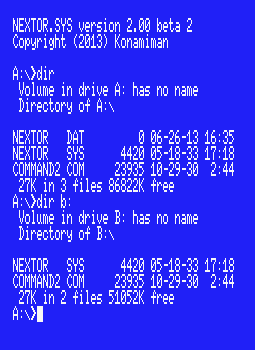
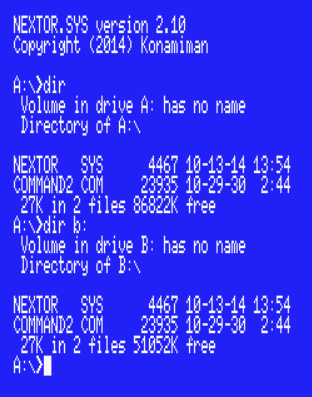
Getting started guide updated

diff --git a/docs/Nextor 2.1 Getting Started Guide.md b/docs/Nextor 2.1 Getting Started Guide.md
@@ -39,11 +39,11 @@ Note: in this guide the following Nextor tools will be used: MAPDRV.COM, LOCK.CO
 
 This section explains the steps needed to setup blueMSX in order to follow this guide. The blueMSX emulator can be downloaded at http://www.bluemsx.com. 
 
-a. Download the following files from [Konamiman's MSX page](https://www.konamiman.com/msx/msx-e.html#nextor):
+a. Download the following files from [the lastest release of Nextor in GitHub](https://github.com/Konamiman/Nextor/releases/latest):
 
-* Nextor kernel with Sunrise IDE driver.
+* Nextor kernel with Sunrise IDE driver. Please choose the file with _.SunriseIDE.emulators.ROM_ extension (the _.SunriseIDE.ROM_ version works but only recgonizes the slave IDE device in emulators).
 
-* Nextor tools disk image
+* Nextor tools disk image (_tools.dsk.zip_).
 
 b. Run blueMSX and select the _Tools - Machine Editor_ menu.
 
@@ -67,15 +67,15 @@ Now you have an emulated MSX2 with a Sunrise IDE controller that has the Nextor 
 
 If you want to follow the steps of this guide by using a real MSX computer with a Sunrise IDE controller and a floppy disk drive instead of an emulator, you will need to do the following:
 
-* Download the Nextor kernel with Sunrise IDE driver.
+* Download the Nextor kernel with Sunrise IDE driver (the file with extension _.SunriseIDE.ROM_).
 
 * Copy the NEXTOR.SYS and COMMAND2.COM files and the Nextor tools to a floppy disk. You have two options:
 
     * Download the Nextor tools disk image file and transfer its contents to a floppy disk.
 
-    * Download the Nextor tools LZH file and uncompress it to a floppy disk, together with the NEXTOR.SYS and COMMAND2.COM files.
+    * Download the Nextor tools ZIP file (_tools.zip_) and uncompress it to a floppy disk, together with the NEXTOR.SYS and COMMAND2.COM files.
 
-Note: The Nextor kernel, NEXTOR.SYS and the Nextor tools are available at [Konamiman's MSX page](https://www.konamiman.com/msx/msx-e.html#nextor).
+Note: The Nextor kernel, NEXTOR.SYS and the Nextor tools are available as assets in [the lastest release of Nextor in GitHub](https://github.com/Konamiman/Nextor/releases/latest).
 
 * Copy the MSXDOS.SYS and COMMAND.COM files to the floppy disk, these are necessary for the steps that involve booting in MSX-DOS 1 mode. These files are included in the Nextor tools disk image file, but can be found on other places on Internet too (search for "MSXDOS.SYS" on any search engine).
 
@@ -92,7 +92,9 @@ a. Boot your MSX. You will see that you boot in the COMMAND2 prompt in drive B:,
 ![](img/gsg/NextorPrompt.png)
  
 
-***What has happened?*** Nextor has assigned one drive to the Sunrise IDE driver (A:) and two drives to the floppy disk drive (B: and C:). Then it has attempted to search a suitable FAT12 or FAT16 partition in the attached hard disk in order to assign it to drive A:, but since the hard disk has no partitions yet, drive A: has been left unassigned. Drive B:, assigned to the floppy disk, is the first valid drive, and so it is used as the boot drive.
+***What has happened?*** Nextor has assigned one drive to the Sunrise IDE driver (A:) and one drive to the floppy disk drive (B:). Then it has attempted to search a suitable FAT12 or FAT16 partition in the attached hard disk in order to assign it to drive A:, but since the hard disk has no partitions yet, drive A: has been left unassigned. Drive B:, assigned to the floppy disk, is the first valid drive, and so it is used as the boot drive.
+
+**Note:** You may be wondering why the floppy disk drive gets only one drive letter assigned, and not two as usual. That's because by default Nextor inverts the behavior of the CTRL key at boot time. There's a way to customize this, see ["Boot key inverters" in the Nextor 2.1 User Manual](Nextor%202.1%20User%20Manual.md#291-boot-key-inverters).
 
 b. Type BASIC and then CALL FDISK to invoke the device partitioning tool.
 
@@ -111,6 +113,8 @@ i. Press "A" to use all the remaining disk space (9214K) for yet another partiti
 j. Press "S" to see the defined partitions. You should see four partitions, as in the following image:
 
 ![](img/gsg/FourPartitionsList.png)
+
+Note: the asterisk "*" next to the partition number means that the partition will be created with the "active" flag set in the partition table. We'll see what this implies in next section.
 
 k. Press ESC to return to the main menu, then press "W" to create the partitions on the disk. Press "y" on the data destroy warning prompt.
 
@@ -150,13 +154,21 @@ COPY NEXTOR.SYS D:
 COPY COMMAND2.COM D:
 ```
 
-d. Create an empty file named NEXTOR.DAT in drive D:. You can achieve this by executing a `COPY CON D:NEXTOR.DAT` command, then pressing CTRL+Z, then pressing Enter.
+d. Type BASIC and then CALL FDISK to invoke the device partitioning tool.
 
-e. Reset your MSX, and when you are in the COMMAND2 prompt, perform a DIR command and check that this time drive A: is assigned to the second (25MB big) partition:
+e. Press "1" to select the Sunrise IDE driver, then "1" again to select the hard disk, then "1" again to select the first logical unit, then "S" to show the partitions list.
+
+f. Press "1" and then "y" to remove the "active" flag from the first partition in the partition table.
+
+g. Press "2" and then "y" to set the "active" flag for the second partition in the partition table.
+
+h. Reset your MSX, and when you are in the COMMAND2 prompt, perform a DIR command and check that this time drive A: is assigned to the second (25MB big) partition:
 
 ![](img/gsg/DirWithNextorDat.png)
 
-***What has happened?*** When performing the automatic drive to device and partition mapping assignment at boot time, Nextor normally selects the first valid (FAT12 or FAT16) partition available. But if there are partitions with a file named "NEXTOR.DAT" in the root directory, then these partition have preference in the assignment process. The contents of the NEXTOR.DAT file are irrelevant in this version of Nextor.
+***What has happened?*** When performing the automatic drive to device and partition mapping assignment at boot time, Nextor selects the first valid (FAT12 or FAT16) partition available that has the "active" flag set in the partition table. You can set and reset this flag for any of the first 9 partitions in the device using FDISK (either partitions that you are creating, or already existing partitions).
+
+If none of the existing partitions has the "active" flag set in the partition table, then the first suitable partition found will be mapped. We'll see this in the next section.
  
 ## 5. Booting in MSX-DOS 1 mode
 
@@ -187,21 +199,23 @@ e. Map partition 4 to drive D: by executing the following:
 
     B:MAPDRV D: 4 1 1
 
-f. Copy the MSX-DOS 1 system files to drive D: as you did in step b, then create an empty NEXTOR.DAT file in drive D: as you did in the previous section.
+f. Copy the MSX-DOS 1 system files to drive D: as you did in step b
 
-g. Boot the computer while keeping pressed the "1" key. You will boot in MSX-DOS 1 mode and in the  COMMAND.COM prompt again. Issue a DIR command and you should see the following (notice the 9M free space):
+g. Go to BASIC, run FDISK and go to the partitions list for the first device, as you did in the previous section. This time set the "active" flag for partition 4. You should see that both partitions 2 and 4 are active now:
+
+![](img/gsg/Partitions2And4Active.png)
+
+h. Boot the computer while keeping pressed the "1" key. You will boot in MSX-DOS 1 mode and in the COMMAND.COM prompt again. Issue a DIR command and you should see the following (notice the 9M free space):
 
 ![](img/gsg/DirInDos1ModeWithNextorDat.png)
 
-***What has happened?*** The rule "give priority to partitions holding a file named NEXTOR.DAT at the root directory during the automatic drive to device and partition assignment at boot time" is valid when booting in MSX-DOS 1 mode too, but this time only the MSX-DOS 1 compatible partitions are checked (partitions 3 and 4 in this case, being partition 4 the "winner" partition).
+***What has happened?*** The rule "give priority to partitions having the 'active' flag set during the automatic drive to device and partition assignment at boot time" is valid when booting in MSX-DOS 1 mode too, but this time only the MSX-DOS 1 compatible partitions are checked (partitions 3 and 4 in this case, being partition 4 the "winner" partition).
 
 The remaining steps will leave the environment ready for the next section.
 
-h. Boot the computer in normal mode.
+i. Boot the computer in normal mode.
 
-i. You should have booted with partition 2 (the one 25M big) mapped to drive A:. If so, simply delete the NEXTOR.DAT file in that drive (`DEL NEXTOR.DAT`). If not, map partition 2 to drive D: (`B:MAPDRV D: 2 1 1`) and then delete the file (`DEL D:NEXTOR.DAT`).
-
-j. Map partition 4 to drive D: and then delete the NEXTOR.DAT file.
+j. Go to BASIC, run FDISK and reset the "active" flag of both partitions 2 and 4, so that none of the partitions has the flag set.
  
 ## 6. Using a second storage device
 
@@ -213,63 +227,69 @@ a. Select the _File - Hard Disk - IDE Sunrise Secondary - Insert New Disk Image_
 
 b. Reset the computer, go to BASIC and invoke the device partitioning tool with CALL FDISK.
 
-c. Partition the device as you did in [3. Booting and creating partitions](#3-booting-and-creating-partitions). This time, however, you should select device 2 in the device selection screen; and you should create just two partitions, the first one having a size of 85M and the second one of 15M.
+c. Partition the device as you did in [3. Booting and creating partitions](#3-booting-and-creating-partitions). This time, however, you should select device 2 in the device selection screen; and you should create just two partitions, the first one having a size of 85M and the second one of 15M. Also, please remove the "active" flag from the first partition (you can do this either before or after writing the partitions in the device).
 
 d. Reset the computer. Once in the COMMAND2 prompt, issue a _DIR_ command and check that drive A: has 50M free. Then issue a _DIR B:_ command and check that drive B: has 85M free (again, please be patient, especially with the second DIR command):
 
 ![](img/gsg/DirAAndDirB.png)
 
-***What has happened?*** This time, Nextor has assigned two drives (A: and B:) to the Sunrise IDE driver, since two devices have been detected; the floppy disk controller has now drives C: and D: assigned. At boot time, Nextor assigns as many drives as devices are available to each controller (for device-based controllers only; see the _[Nextor 2.1 User Manual](Nextor%202.1%20User%20Manual.md)_ for details about the controller types).
+***What has happened?*** This time, Nextor has assigned two drives (A: and B:) to the Sunrise IDE driver, since two devices have been detected; the floppy disk controller has now drive C: assigned. At boot time, Nextor assigns as many drives as devices are available to each controller (for device-based controllers only; see the _[Nextor 2.1 User Manual](Nextor%202.1%20User%20Manual.md)_ for details about the controller types).
 
 Drive A: has been mapped to the first available partition on the first available device, as usual. However, once this has been done, Nextor has searched for more suitable partitions on additional devices to be mapped to drive B:. So drive A: is mapped to the first partition in the master device (50M big) and drive B: is mapped to the first partition in the slave device (85M big).
 
-e. Create an empty NEXTOR.DAT file in drive B:. Also, copy the NEXTOR.SYS and COMMAND2.COM files to drive B:.
+e. Copy the NEXTOR.SYS and COMMAND2.COM files to drive B:.
 
-f. Reset your computer and issue a _DIR_ command, then a _DIR B:_ command. Notice that the mapping is reversed relative to the previous case (A: is mapped to the 85M partition on slave device, B: is mapped to the 50M partition on master device):
+f. Go to BASIC, run FDISK and set the "active" flag of partition 1 (85M) in the device with number 2.
+
+g. Reset your computer and issue a _DIR_ command, then a _DIR B:_ command. Notice that the mapping is reversed relative to the previous case (A: is mapped to the 85M partition on slave device, B: is mapped to the 50M partition on master device):
 
 ![](img/gsg/DirAAndDirBWithFiles.png)
 
-***What has happened?*** The rule "give priority to partitions holding a file named NEXTOR.DAT at the root directory during the automatic drive to device and partition assignment at boot time" applies to all partitions on all devices, not only to the first device. Taking in account both the master and the slave devices, the only partition having a NEXTOR.DAT file is the first partition on the slave device, and therefore this one is assigned to drive A:. After this is done, other devices are scanned for a partition to be mapped to drive B:; in this case the only "other device" available is the master device, and thus its first partition is mapped to drive B:.
+***What has happened?*** The rule "give priority to partitions having the 'active' flag set during the automatic drive to device and partition assignment at boot time" applies to all partitions on all devices, not only to the first device. Taking in account both the master and the slave devices, the only partition having the 'active' flag set is the first partition on the slave device, and therefore this one is assigned to drive A:. After this is done, other devices are scanned for a partition to be mapped to drive B:; in this case the only "other device" available is the master device, and thus its first partition is mapped to drive B:.
 
-g. Map partition 2 of slave device to drive B: (`C:MAPDRV B: 2 2 1`). Copy the MSXDOS.SYS and COMMAND.COM files to drive B:.
+h. Map partition 2 of slave device to drive B: (`C:MAPDRV B: 2 2 1`). Copy the MSXDOS.SYS and COMMAND.COM files to drive B: (remember the floppy holding these files is now mapped in C:).
  
-h. Reset the computer while keeping pressed the "1" key. You will boot in MSX-DOS 1 mode and in the `COMMAND.COM` prompt. Issue a `DIR` command, then a `DIR B:` command. Notice that in the first case you get 16M of free space, and in the second case you get 15M:
+i. Reset the computer while keeping pressed the "1" key. You will boot in MSX-DOS 1 mode and in the `COMMAND.COM` prompt. Issue a `DIR` command, then a `DIR B:` command. Notice that in the first case you get 16M of free space, and in the second case you get 15M:
 
 ![](img/gsg/DirAAndDirBDos1Mode.png)
 
 ***What has happened?*** Drive A: has been mapped to the first available partition on the master device, and drive B: has been mapped to the first available partition on the slave device, as in the previous case. However, this time only the MSX-DOS 1 compatible partitions have been taken in account. These are partitions 3 and 4 in the master device (partition 3, 16M big, is selected) and partition 2 in the slave device (15M big).
 
-i. Create an empty NEXTOR.DAT file in drive B:.
+j. Go to BASIC, run FDISK and set the "active" flag of partition 2 (15M) in the device with number 2.
 
-j. Reset the computer while keeping pressed the "1" key. You will boot in MSX-DOS 1 mode and in the `COMMAND.COM` prompt. Issue a `DIR` command, then a `DIR B:` command. Notice that the mapping is reversed relative to the previous case (A: is mapped to the 15M partition on slave device, B: is mapped to the 16M partition on master device):
+k. Reset the computer while keeping pressed the "1" key. You will boot in MSX-DOS 1 mode and in the `COMMAND.COM` prompt. Issue a `DIR` command, then a `DIR B:` command. Notice that the mapping is reversed relative to the previous case (A: is mapped to the 15M partition on slave device, B: is mapped to the 16M partition on master device):
 
 ![](img/gsg/DirAAndDirBDos1ModeWithNextorDat.png)
 
-***What has happened?*** You should have guessed it already: both devices have been scanned for partitions, only the MSX-DOS 1 partitions have been taken in account, and the partition having a NEXTOR.DAT file has been given priority in the mapping process and thus it has been mapped to drive A:.
+***What has happened?*** You should have guessed it already: both devices have been scanned for partitions, only the MSX-DOS 1 partitions have been taken in account, and the partition having the "active" flag set has been given priority in the mapping process and thus it has been mapped to drive A:.
 
-k. Delete the NEXTOR.DAT from drive A:. Reset your computer in normal mode, delete the NEXTOR.DAT from drive A: again, and reset once more. You should be in the COMMAND2 prompt and have the 50M partition mapped to drive A:.
+l. Go to BASIC, run FDISK and reset the "active" flag from all partitions having it set in both devices.
+
+m. Reset your computer in normal mode, you should be in the COMMAND2 prompt and have the 50M partition mapped to drive A:.
  
 ## 7. Locking drives
 
 In this section we'll try the drive lock feature. 
 
-a. Execute the following command: `C:LOCK C: ON`
+a. Create a small text file in the tools floppy disk. You can do that by executing `COPY CON C:TEST`, then writing something, then pressing CTRL+Z.
 
-b. Issue a `DIR C:` command. You will see a directory listing of the Nextor tools floppy disk.
+b. Execute the following command: `C:LOCK C: ON`
 
-c. Remove the floppy disk from the drive (if you are using blueMSX, select the `File - Disk Drive A - Eject: nextor.dsk` menu option).
+c. Execute the following: `TYPE C:TEST`. You will see the contents of the text file you just created.
 
-d. Issue a `DIR C:` command again. You will see the same directory listing again instead of getting a "Not Ready" error, even though the disk has been removed from the drive.
+d. Remove the floppy disk from the drive (if you are using blueMSX, select the `File - Disk Drive A - Eject: nextor.dsk` menu option).
+
+e. Execute `TYPE C:TEST` again. You will see the file contents again instead of getting a "Not Ready" error, even though the disk has been removed from the drive.
 
 ***What has happened?*** Whenever Nextor is about to access the contents of a drive (and the drive is not mapped to a fixed device on a device-based driver), it first asks the driver if the associated storage media has changed. If the answer is "Yes" or "Not sure", then it takes the appropriate actions: for devices on a device-based driver, it assigns the first available partition on the device to the drive; for other drivers (MSX-DOS legacy drivers and drive-based drivers), it simply clears sector buffers and creates again the disk parameters block for the drive. (The "Not sure" response gets actually a special treatment; see the Nextor user manual for more details)
 
 When a drive is locked, Nextor will never ask the driver for device change status when accessing that drive, and will instead assume that the device will never change. This improves performance as it saves both CPU processing and device access.
 
-In this case, we have locked the floppy disk drive, whose change status would otherwise be checked on each disk access (floppy disk drives usually report a change status of "Not sure" always). When issuing the second DIR command, Nextor assumes that the disk has not changed, and since it still has the directory and FAT sectors cached in memory, it can display the disk contents even if the disk has been removed from the drive.
+In this case, we have locked the floppy disk drive, whose change status would otherwise be checked on each disk access (floppy disk drives usually report a change status of "Not sure" always). When displaying the file contents the second time, Nextor assumes that the disk has not changed, and since it still has the file contents sector cached in memory, it can display it even if the disk has been removed from the drive.
 
-Nextor will clear then cached sector for a drive at the moment of locking it, therefore if you had reversed the order of steps a and b you would have effectively got a "Not Ready" error.
+Nextor will clear the cached sector for a drive at the moment of locking it, therefore if you had reversed the order of steps b and c you would have effectively got a "Not Ready" error.
 
-e. Insert the Nextor tools floppy disk in its drive again.
+f. Insert the Nextor tools floppy disk in its drive again.
  
 ## 8. The reduced/zero allocation information mode
 
@@ -302,8 +322,6 @@ f. Issue again the `DIR` and `DIR B:` commands. Notice that this time the free s
 
 ***What has happened?*** When an environment item named ZALLOC exists and has the value ON (case insensitive), the reduced allocation information mode becomes the zero allocation information mode, causing the ALLOC function to return zero free space available for the drives that are in this mode. You can use this mode if you have a very large drive and/or are using a very slow device, to prevent the computer from hanging for a few seconds every time a DIR command is issued.
 
-Note: the zero allocation information mode is available since Nextor 2.0.3.
- 
 ## 9. Using the boot keys
 
 We have seen that if key "1" is kept pressed while the computer is booting, Nextor starts in MSX-DOS 1 mode. Now we'll see other useful keys that can be used to alter the way Nextor boots; see the _[Nextor 2.1 User Manual](Nextor%202.1%20User%20Manual.md)_ for a full list of the available keys.
@@ -316,15 +334,15 @@ b.	Issue a `CALL SYSTEM` command.
 
 c.	Copy the DRIVERS tool to drive A: with the following command: `COPY C:DRIVERS.COM A:`
 
-d.	Execute the DRIVERS tool. You will see that the IDE controller had been assigned two drives at boot time, and the same happens with the floppy disk controller:
+d.	Execute the DRIVERS tool. You will see that the IDE controller had been assigned two drives at boot time, and the floppy disk controller has been assigned one:
 
 ![](img/gsg/DriversTwoDrives.png)
 
-e.	Reset your computer while keeping the "CTRL" key pressed. Once in the COMMAND2.COM prompt, execute the DRIVERS tool again. You will see that both the IDE controller and the floppy disk drive have been assigned only one drive each:
+e.	Reset your computer while keeping the "5" key pressed. Once in the COMMAND2.COM prompt, execute the DRIVERS tool again. You will see that both the IDE controller and the floppy disk drive have been assigned only one drive each:
 
 ![](img/gsg/DriversOneDrive.png)
 
-***What has happened?*** When the "CTRL" key is kept pressed at boot time, Nextor will assign one single drive to Nextor drivers, regardless of the number of attached devices (for device-based controllers only; see the _[Nextor 2.1 User Manual](Nextor%202.1%20User%20Manual.md)_ for details about the controller types). The same behavior is exhibited by the floppy disk controller as usual.
+***What has happened?*** When the "5" key is kept pressed at boot time, Nextor will assign one single drive to Nextor drivers, regardless of the number of attached devices (for device-based controllers only; see the _[Nextor 2.1 User Manual](Nextor%202.1%20User%20Manual.md)_ for details about the controller types).
  
 f.	Reset your computer while keeping the "SHIFT" key pressed. Once in the COMMAND2.COM prompt, execute the DRIVERS tool again. You will see that no drives have been assigned to the floppy disk drive:
 
@@ -332,13 +350,13 @@ f.	Reset your computer while keeping the "SHIFT" key pressed. Once in the COMMAN
 
 ***What has happened?*** When the "SHIFT" key is kept pressed at boot time, all the storage controllers with a MSX-DOS kernel (including the floppy disk drive controller) will disable themselves, but Nextor will not. This is useful to maximize the amount of available memory, especially in MSX-DOS 1 mode, as shown in the next step. (There are boot keys to selectively disable the Nextor kernels as well; see the _[Nextor 2.1 User Manual](Nextor%202.1%20User%20Manual.md)_ for details)
 
-g.	Reset your computer while keeping the "1" and "3" keys pressed simultaneously. Once in the BASIC prompt, issue a `PRINT FRE(0)` command. You will see that there are about 20K free for BASIC code.
+g.	Reset your computer while keeping the "1" and "3" keys pressed simultaneously. Once in the BASIC prompt, issue a `PRINT FRE(0)` command. You will see that there are about 23K free for BASIC code.
 
-h.	Reset your computer while keeping the "1", "3", "SHIFT" and "CTRL" keys pressed simultaneously. Once in the BASIC prompt, issue a `PRINT FRE(0)` command again. You will see that now the free memory is about 25K. Also, if you execute a `CALL DRVINFO` command, you will see that indeed, there is only one drive assigned:
+h.	Reset your computer while keeping the "1", "3", "5" and "SHIFT" keys pressed simultaneously. Once in the BASIC prompt, issue a `PRINT FRE(0)` command again. You will see that now the free memory is about 25K. Also, if you execute a `CALL DRVINFO` command, you will see that indeed, there is only one drive assigned:
 
 ![](img/gsg/DrvinfoInBasic.png)
 
-**Note:** of course, you do not need to keep the "CTRL" key pressed while booting if you have only one device attached to your Nextor controller (unless you want to keep the floppy disk drive active but with only one drive assigned).
+**Note:** of course, you do not need to keep the "5" key pressed while booting if you have only one device attached to your Nextor controller.
  
 ## 10. Change history
 
